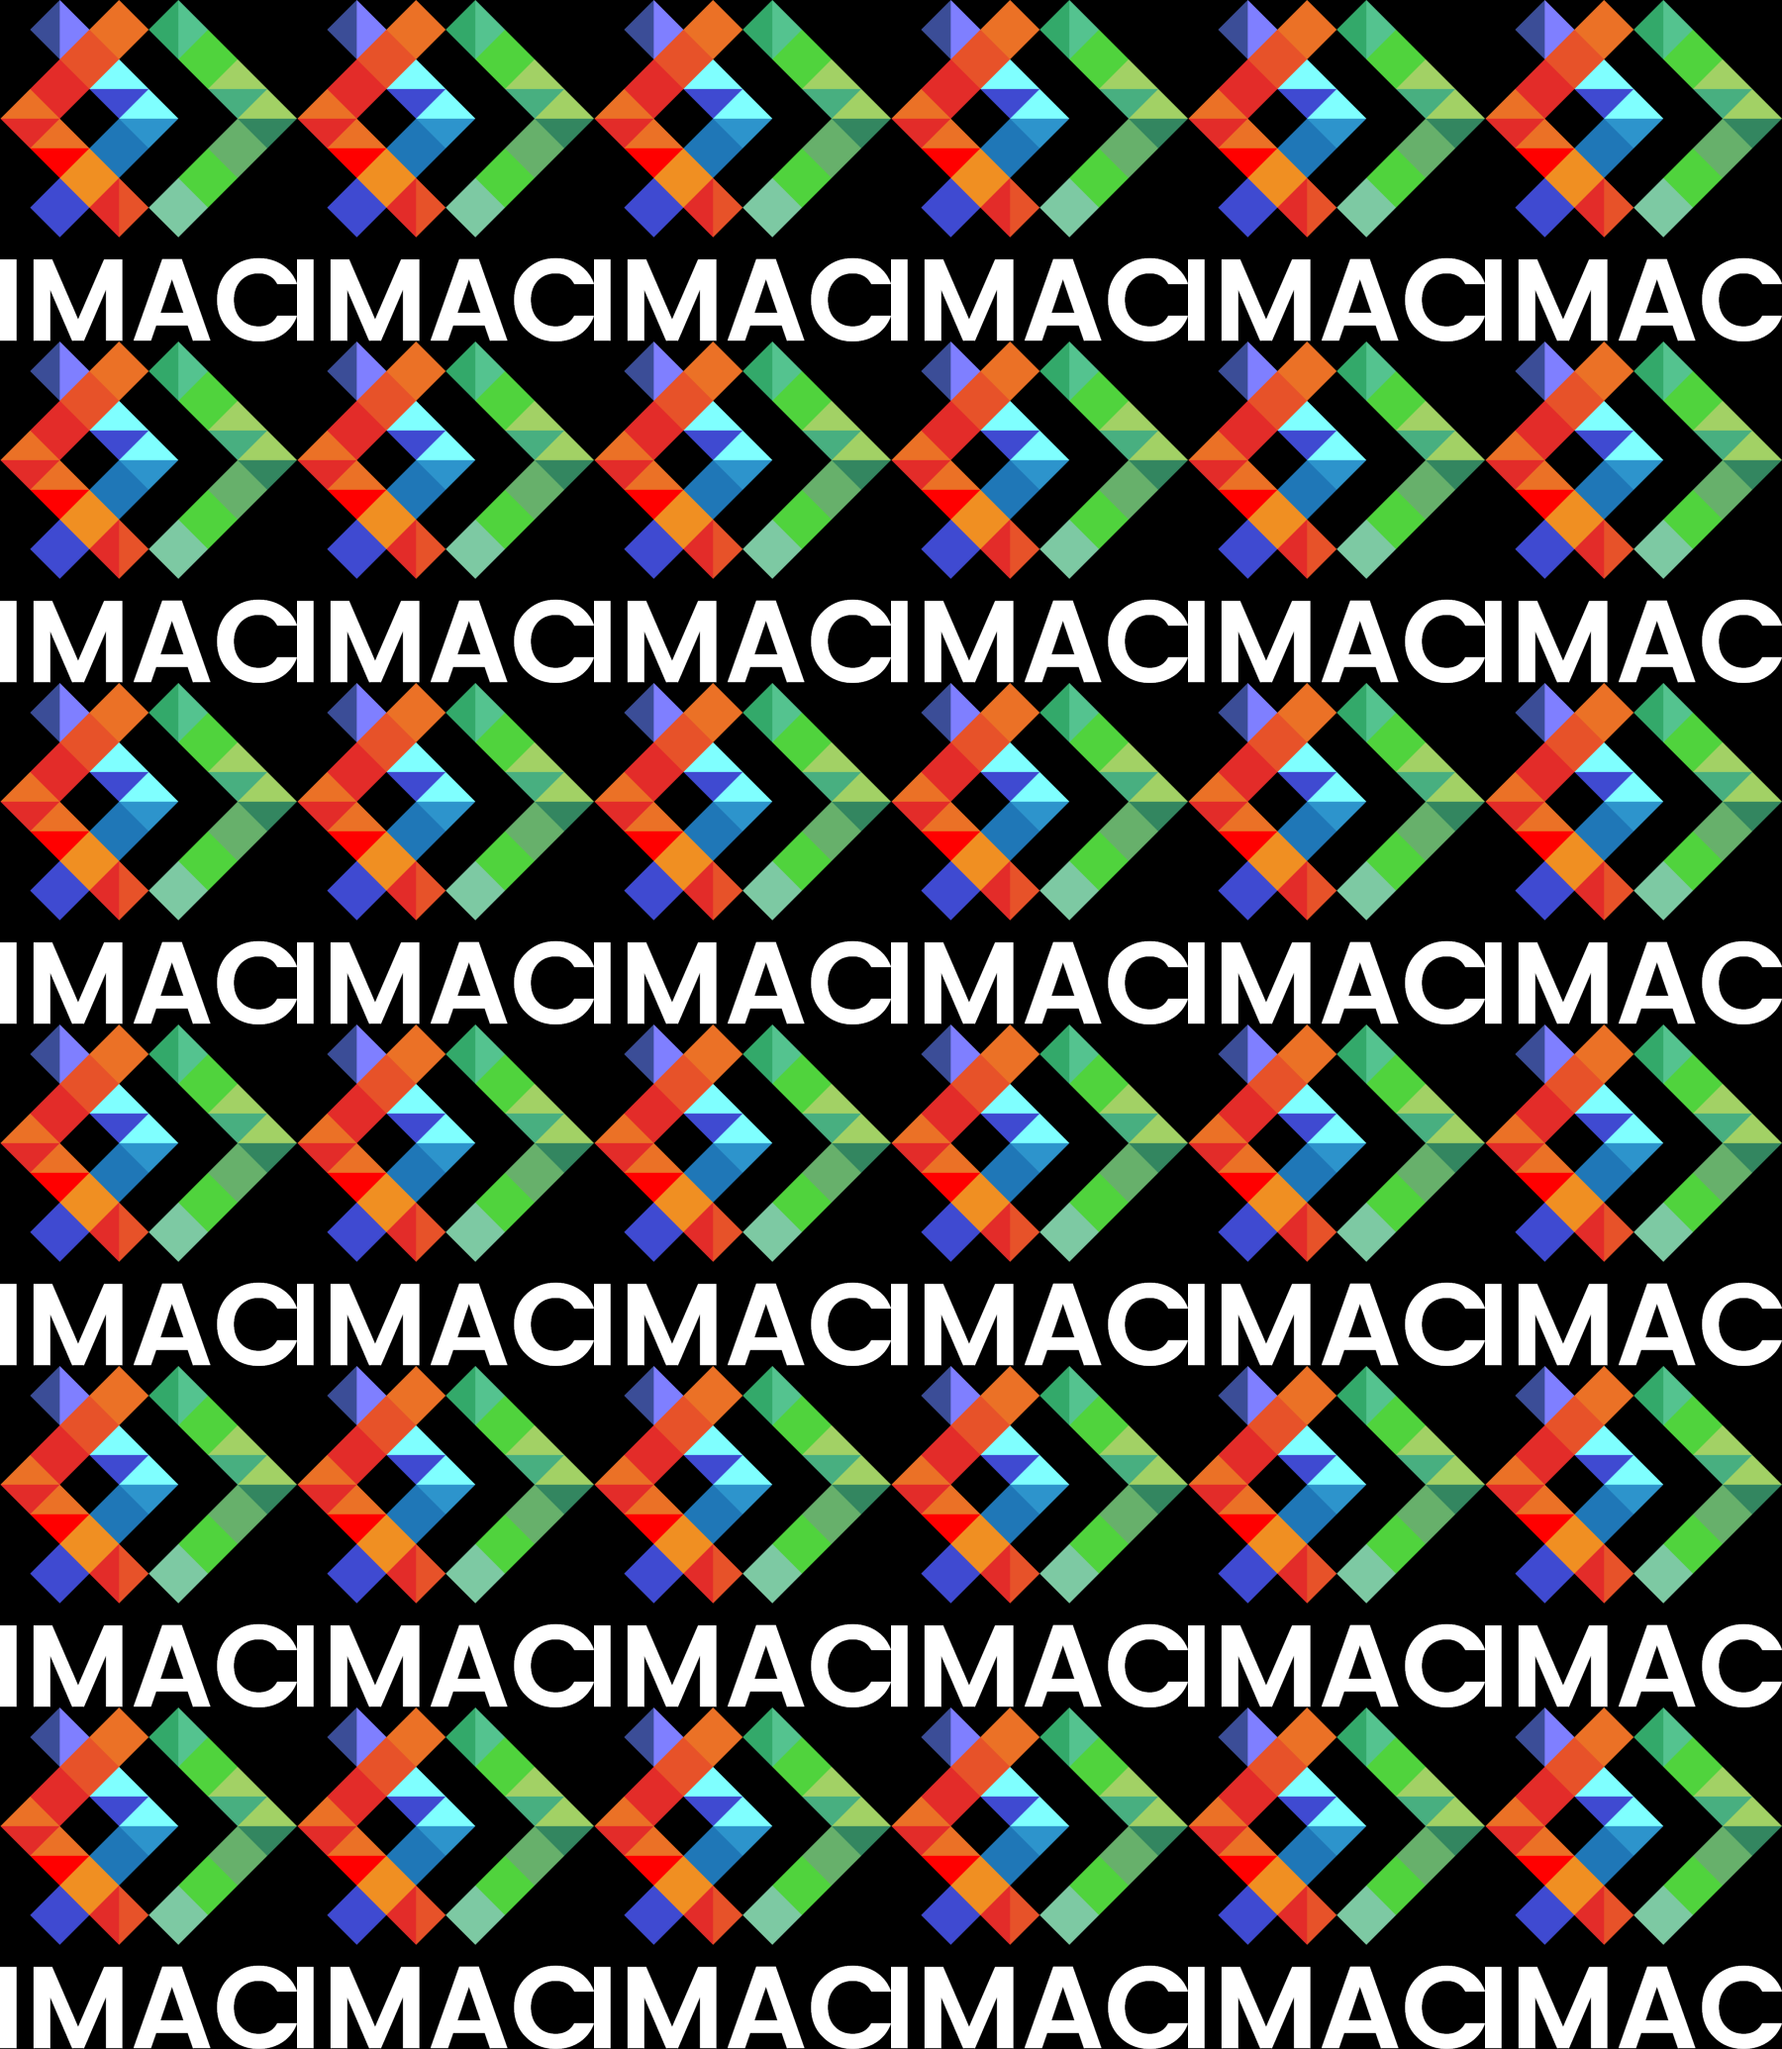
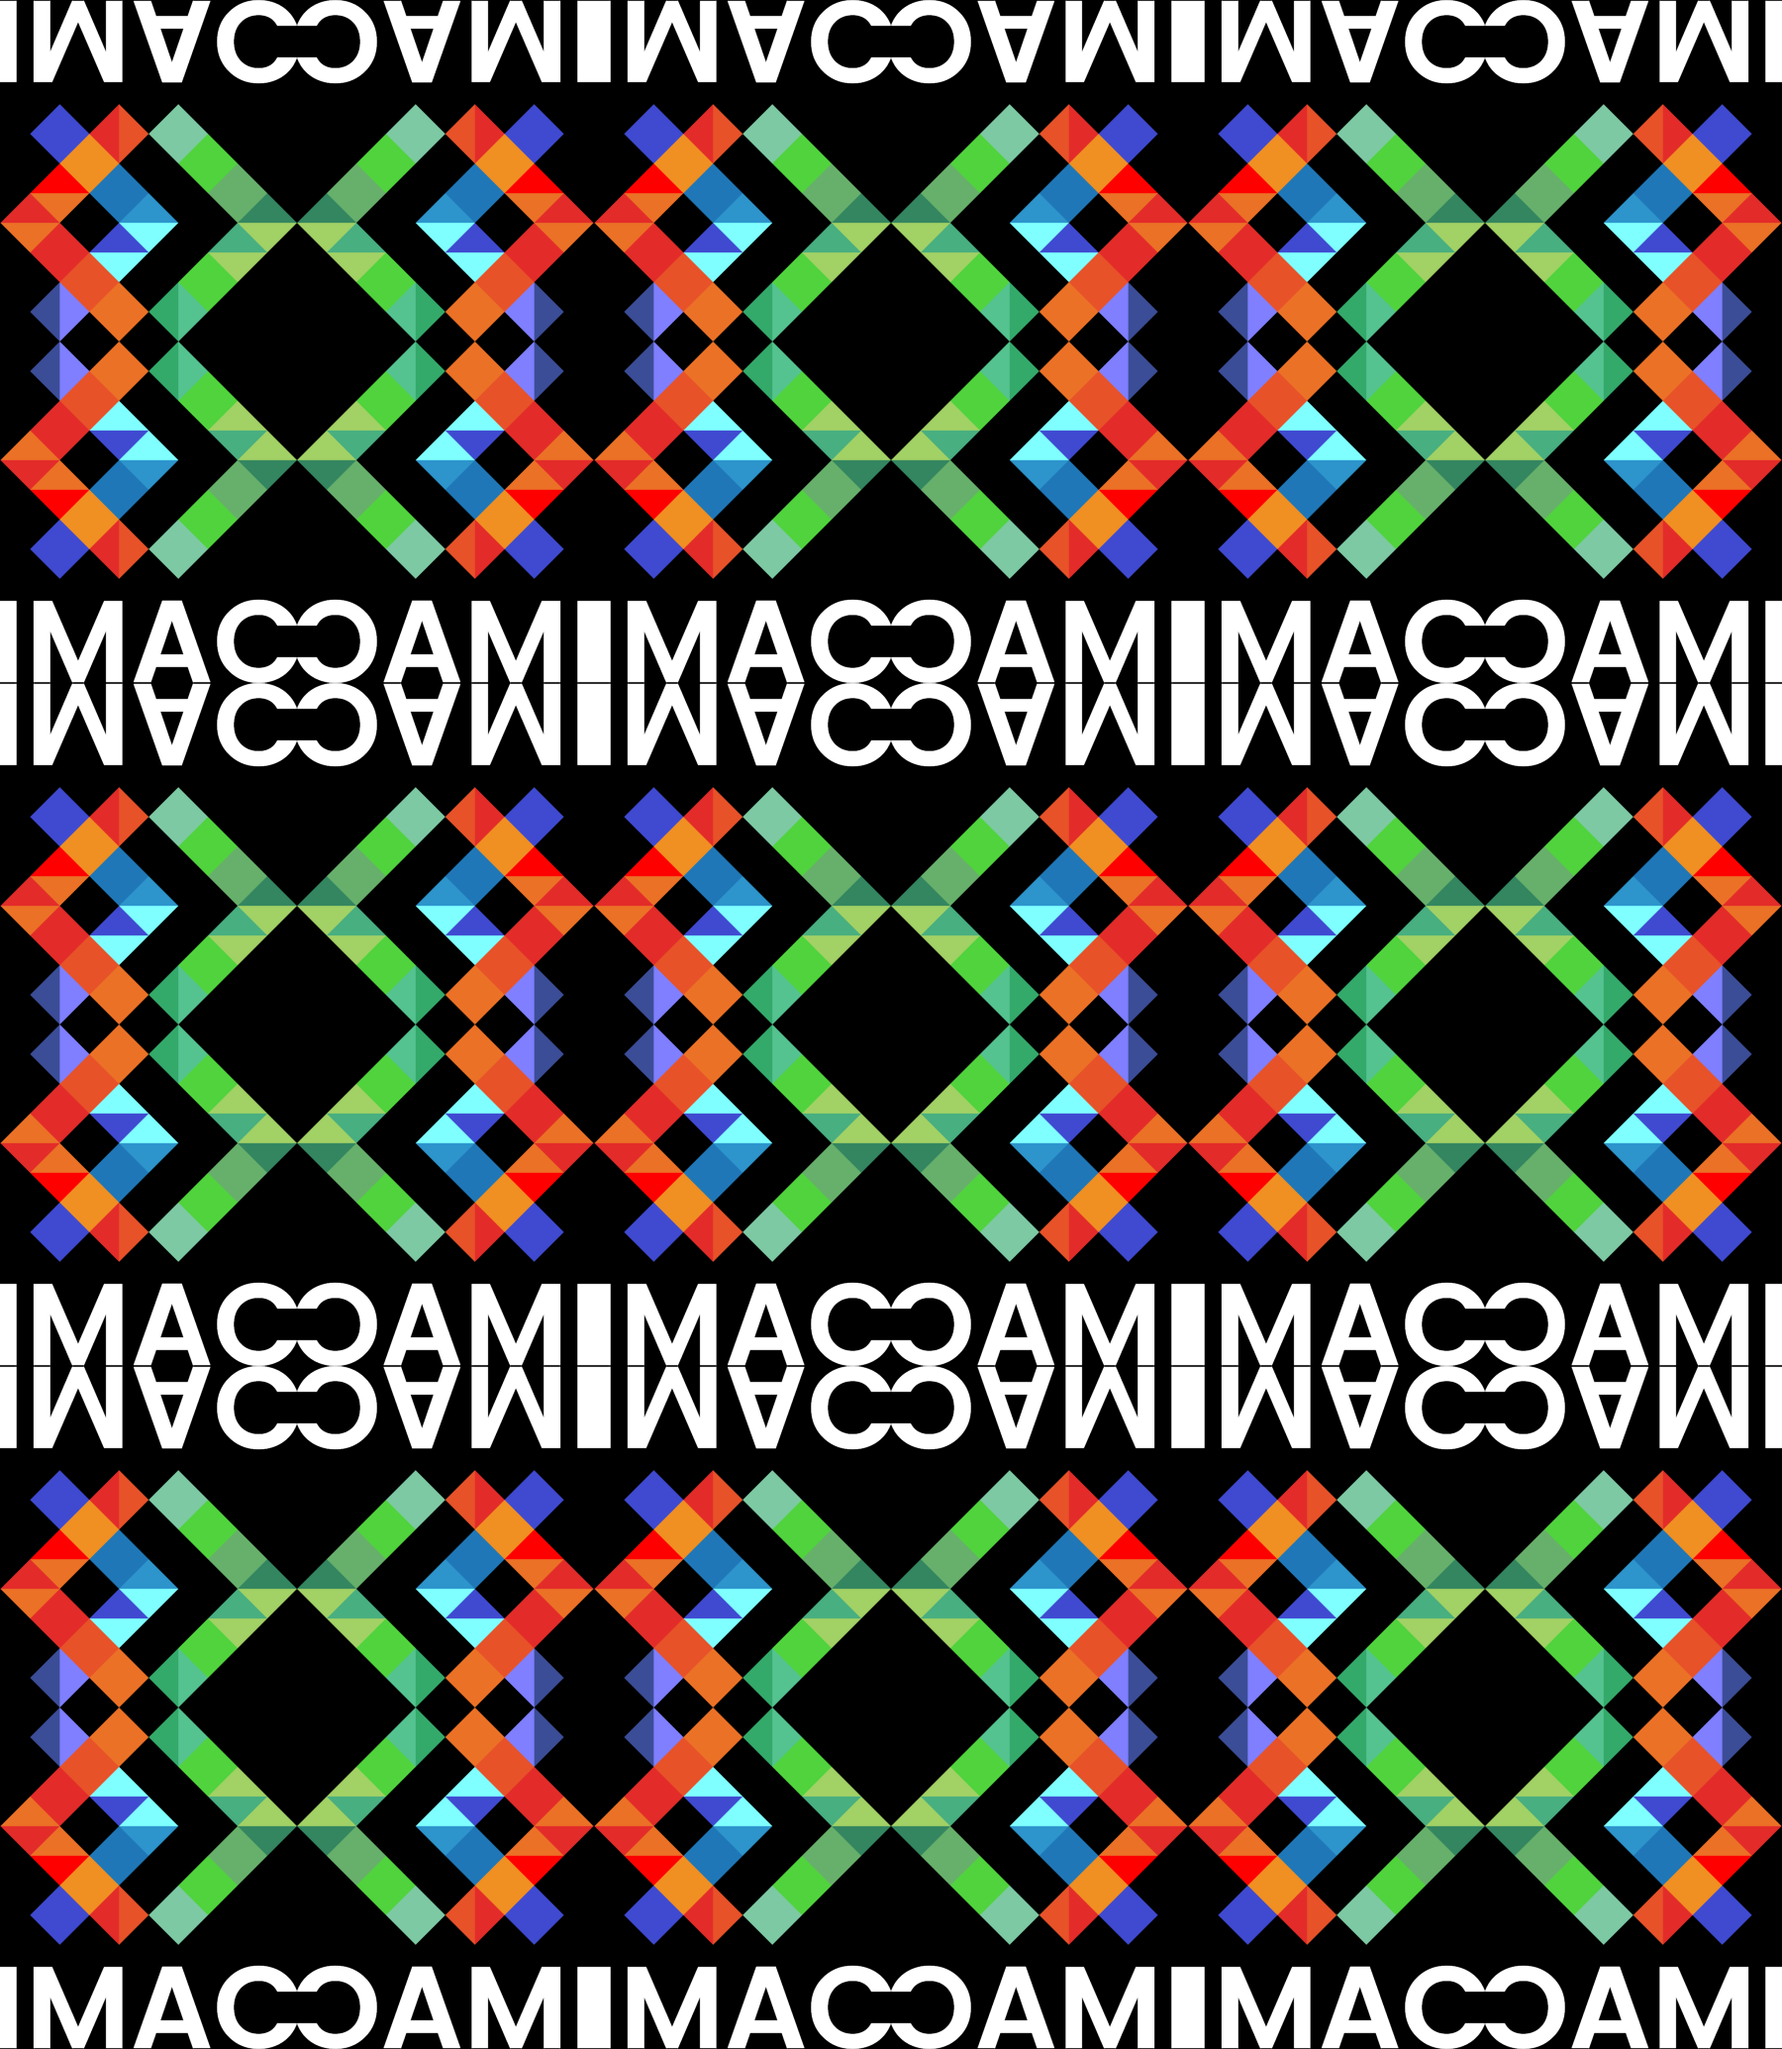
mosaique miroir modulo

diff --git a/elvin/src/mosaiqueMiroir/main.cpp b/elvin/src/mosaiqueMiroir/main.cpp
@@ -6,24 +6,69 @@ int main()
     int nbrepeat {6};
     sil::Image image{"images/logo.png"};
     sil::Image imageIncrement {image.width()*nbrepeat, image.height()*nbrepeat};
+    
+    // for (int i {0}; i < nbrepeat; i++) {
+    //     for (int j {0}; j < nbrepeat; j++) {
 
-    // for (float i = 0; i < nbrepeat; i++) {
-    //     for (float j = 0; j < nbrepeat; j++) {
-
-    //         for (float x {0}; x < image.width(); x++){
-    //             for (float y {0}; y < image.height(); y++) {
-
-    //                 imageIncrement.pixel(x+(image.width()*i), y+(image.height()*j)) = image.pixel(x, y);
-
+    //         if (i % 2 == 0)
+    //         {
+    //             if (j % 2 == 0)
+    //             {
+    //                 for (int x {0}; x < image.width(); x++){
+    //                 for (int y {0}; y < image.height(); y++) {
+    //                         imageIncrement.pixel(x+(image.width()*i), y+(image.height()*j)) = image.pixel(x, y);
+    //                 } }
+    //             } else {
+    //                 for (int x {0}; x < image.width(); x++){
+    //                 for (int y {0}; y < image.height(); y++) {
+    //                         imageIncrement.pixel(x+(image.width()*i), y+(image.height()*j)) = image.pixel(x, image.height() - (y+1));
+    //                 } }
+    //             }
+    //         } else {
+    //             if (j % 2 == 0)
+    //             {
+    //                 for (int x {0}; x < image.width(); x++){
+    //                 for (int y {0}; y < image.height(); y++) {
+    //                         imageIncrement.pixel(x+(image.width()*i), y+(image.height()*j)) = image.pixel(image.width() - (x+1), y);
+    //                 } }
+    //             } else {
+    //                 for (int x {0}; x < image.width(); x++){
+    //                 for (int y {0}; y < image.height(); y++) {
+    //                         imageIncrement.pixel(x+(image.width()*i), y+(image.height()*j)) = image.pixel(image.width() - (x+1), image.height() - (y+1));
+    //                 } }
     //             }
     //         }
-
     //     }
     // }
 
     for (int x {0}; x < imageIncrement.width(); x++) {
         for (int y {0}; y < imageIncrement.height(); y++) {
-            imageIncrement.pixel(x, y) = image.pixel(x % image.width(), y % image.height());
+
+            int iterX {x/image.width()};
+            int iterY {y/image.height()};
+
+            if (iterX % 2 == 0)
+            {
+                if (iterY % 2 == 0)
+                {
+                    imageIncrement.pixel(x, y) = image.pixel(x % image.width(), y % image.height());
+                }
+                else
+                {
+                    imageIncrement.pixel(x, y) = image.pixel(x % image.width(), image.height() - 1 - (y % image.height()));
+                }
+            }
+            else
+            {
+                if (iterY % 2 == 0)
+                {
+                    imageIncrement.pixel(x, y) = image.pixel(image.width() - 1 - (x % image.width()), y % image.height());
+                }
+                else
+                {
+                    imageIncrement.pixel(x, y) = image.pixel(image.width() - 1 - (x % image.width()), image.height() - 1 - (y % image.height()));
+                }
+            }
         }
     }
 

diff --git a/elvin/src/glitch/main.cpp b/elvin/src/glitch/main.cpp
@@ -1,0 +1,23 @@
+#include <sil/sil.hpp>
+#include <iostream>
+#include "random.hpp"
+
+int main()
+{
+    set_random_seed(666);
+    // frequence à changer
+    int freq {5};
+    sil::Image image{"images/logo.png"};
+
+    for (glm::vec3& color : image.pixels())
+    {
+        int rand_select {random_int(0, freq)};
+        if (rand_select == 1)
+        {
+            int rand_color {random_int(0, 3)};
+        }
+    }
+
+
+    image.save("output/pouet.png");
+}
